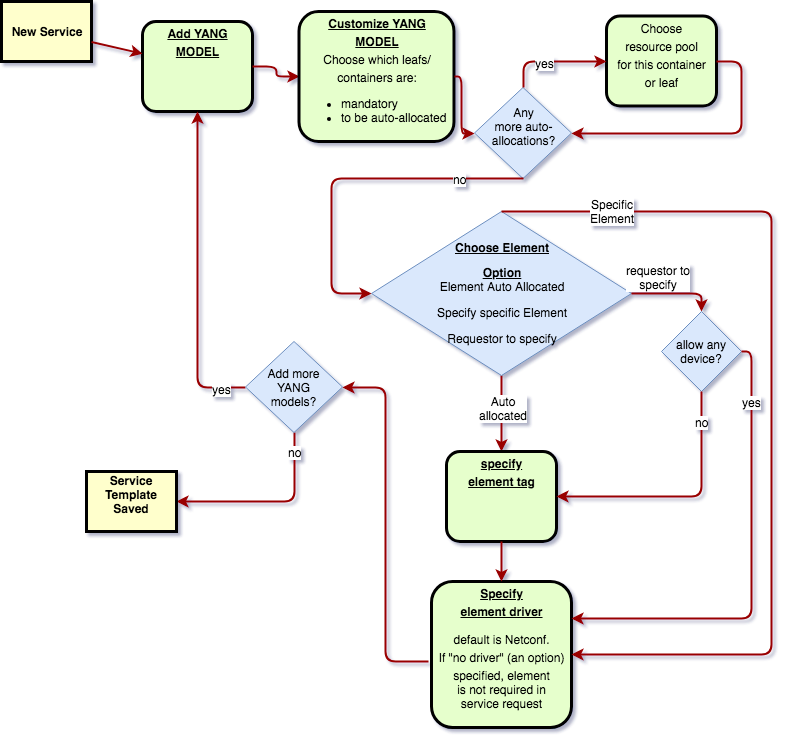
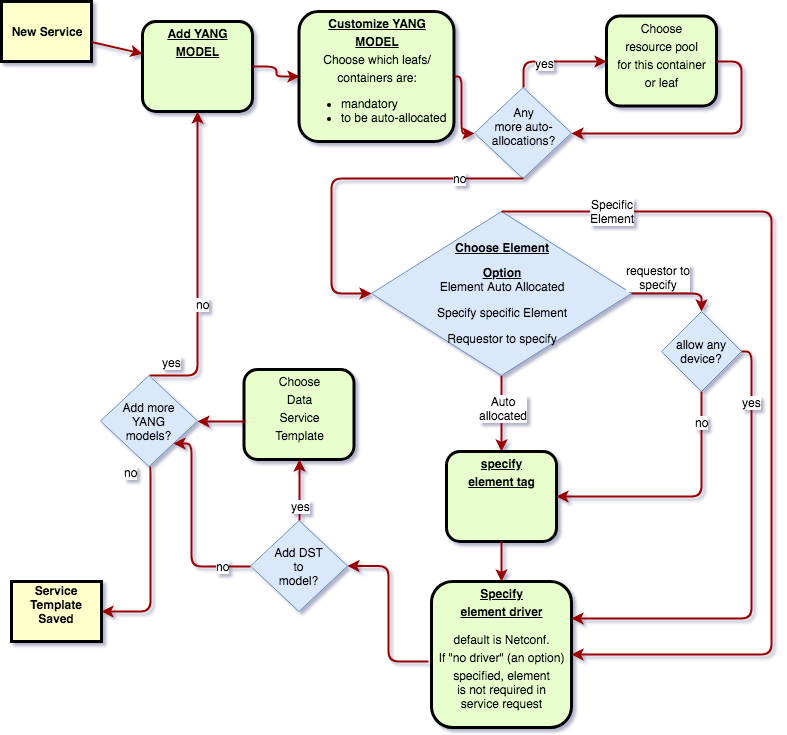
Added some Netrino thoughts

Changed region(s): [[0.0, 0.449, 0.5184, 0.898], [0.244, 0.3891, 0.2745, 0.449]]

diff --git a/docs/source/netrino/index.rst b/docs/source/netrino/index.rst
@@ -193,7 +193,7 @@ provides to the operator the opportunity to do just this.
 When designing a service, the operator specifies the YANG model or models to use for the service. Each model can also
 be linked to an element or element tag. In case linked to an element tag, the requester of the service may specify
 which of those elements are to be used for this particular model of the service. (Specifying an element that does not have
-the associated tag will result in a failure of the :ref:`service request <service_request>` creation.)
+the associated tag will result in a failure of the :ref:`Service Request <service_request>` creation.)
 If the element id is omitted, an element is auto-allocated from the pool of elements with the tag, if auto-allcation
 of the element was specified.
 
@@ -219,6 +219,17 @@ If the validation and allocation was successfull during such a service request, 
 auto-allocated data, and passed onward to the driver.
 
 .. image:: /_static/img/ServiceDesigner.png
+
+.. _dst:
+
+Services are also used for the purpose of obtaining data from elements. Let's call these Data Services Templates.
+
+Each model in a Service Template can also be associated to such a Data Service Template, for the purposes of gathering
+Data related to the model, and storing it in the Service Request. For example, a Service Template might be for a
+Virtual Machine (VM) deployed on an Openstack cluster.
+When such a Service has peen provisioned, one might care about data such as the IP address that
+was assigned, and the URL to access the console. For this purpose one can create a Data Service Template that retrieves
+the required data to be stored in the :ref:`Service Request <service_request>` for the VM Service.
 
 Netrino is also to provide the option to allocate a cost to a Service. This is optional, and can have one of two
 payment types: Once-off or recurring. In the case of recurring, the recurrance period can also be specified. There
@@ -252,7 +263,26 @@ in order to prevent a race condition. If spare resources in the pool has been de
 
 The data sent in the Service Request, comprises of a service Template ID, and an ordered array of objects. Each object
 should contain the data for the corresponding YANG model in the :ref:`Service Template<services>`, as well as the
-element ID(s) if required.
+element ID(s) if required. Each one of the entries in the list is of course passed to a minion.
+
+Each of these tasks may return some data. The worker performing the task will update its associated model in the service
+request with the data returned, for the purposes of viewing a log of the result of the task.
+
+In addition to attributes like
+
+* Date Service was activated
+* Date Service was cancelled
+* Current Service status
+
+each Service Request also makes provision for storing additional arbitrary data related to each model in the
+service. When the status for a Service Request is queried for the first time, it will fire up a Service Request on each
+of the :ref:`Data Service Templates<dst>` associated with the models, if any. The results of those Service Requests,
+are used to populate this field.
+
+Subsequent attempts on Service Requests Status will update these fields.
+
+
+
 
 -----------------------
 Service Request Manager
